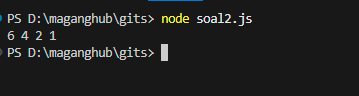
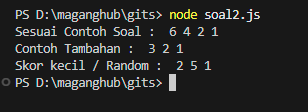
fix: Tambah Pemanggilan Fungsi Untuk 3 Input Berbeda  di Setiap Soal

diff --git a/soal2.js b/soal2.js
@@ -51,7 +51,29 @@ const denseRanking = ({ scores, gitsScores }) => {
   return results.join(" ");
 };
 
-const scores = [100, 100, 50, 40, 40, 20, 10];
-const gits = [5, 25, 50, 120];
+// Sesuai Contoh Soal
+console.log(
+  "Sesuai Contoh Soal : ",
+  denseRanking({
+    scores: [100, 100, 50, 40, 40, 20, 10],
+    gitsScores: [5, 25, 50, 120],
+  })
+);
 
-console.log(denseRanking({ scores: scores, gitsScores: gits })); 
+// Contoh Tambahan
+console.log(
+  "Contoh Tambahan : ",
+  denseRanking({
+    scores: [200, 180, 180, 160, 150],
+    gitsScores: [170, 180, 250],
+  })
+);
+
+// Skor kecil / Random
+console.log(
+  "Skor kecil / Random : ",
+  denseRanking({
+    scores: [50, 40, 40, 20, 10],
+    gitsScores: [40, 5, 60],
+  })
+);

diff --git a/soal3.js b/soal3.js
@@ -85,3 +85,4 @@ function highestPalindrome(s, k) {
 
 console.log(highestPalindrome("3943", 1)); 
 console.log(highestPalindrome("932239", 2)); 
+console.log(highestPalindrome("1234", 3)); 

diff --git a/README.md b/README.md
@@ -29,10 +29,10 @@ Selamat mengerjakan dan semoga lancar! 👍
 # Jawaban : 
 
 # Soal 1 
-![soal 1](image.png)
+![Soal 1](image.png)
 
 # Soal 2
-![soal 2](image-1.png)
+![Soal 2](image-1.png)
 
 # Soal 3 
-![soal 3](image-2.png)
+![Soal 3](image-2.png)
